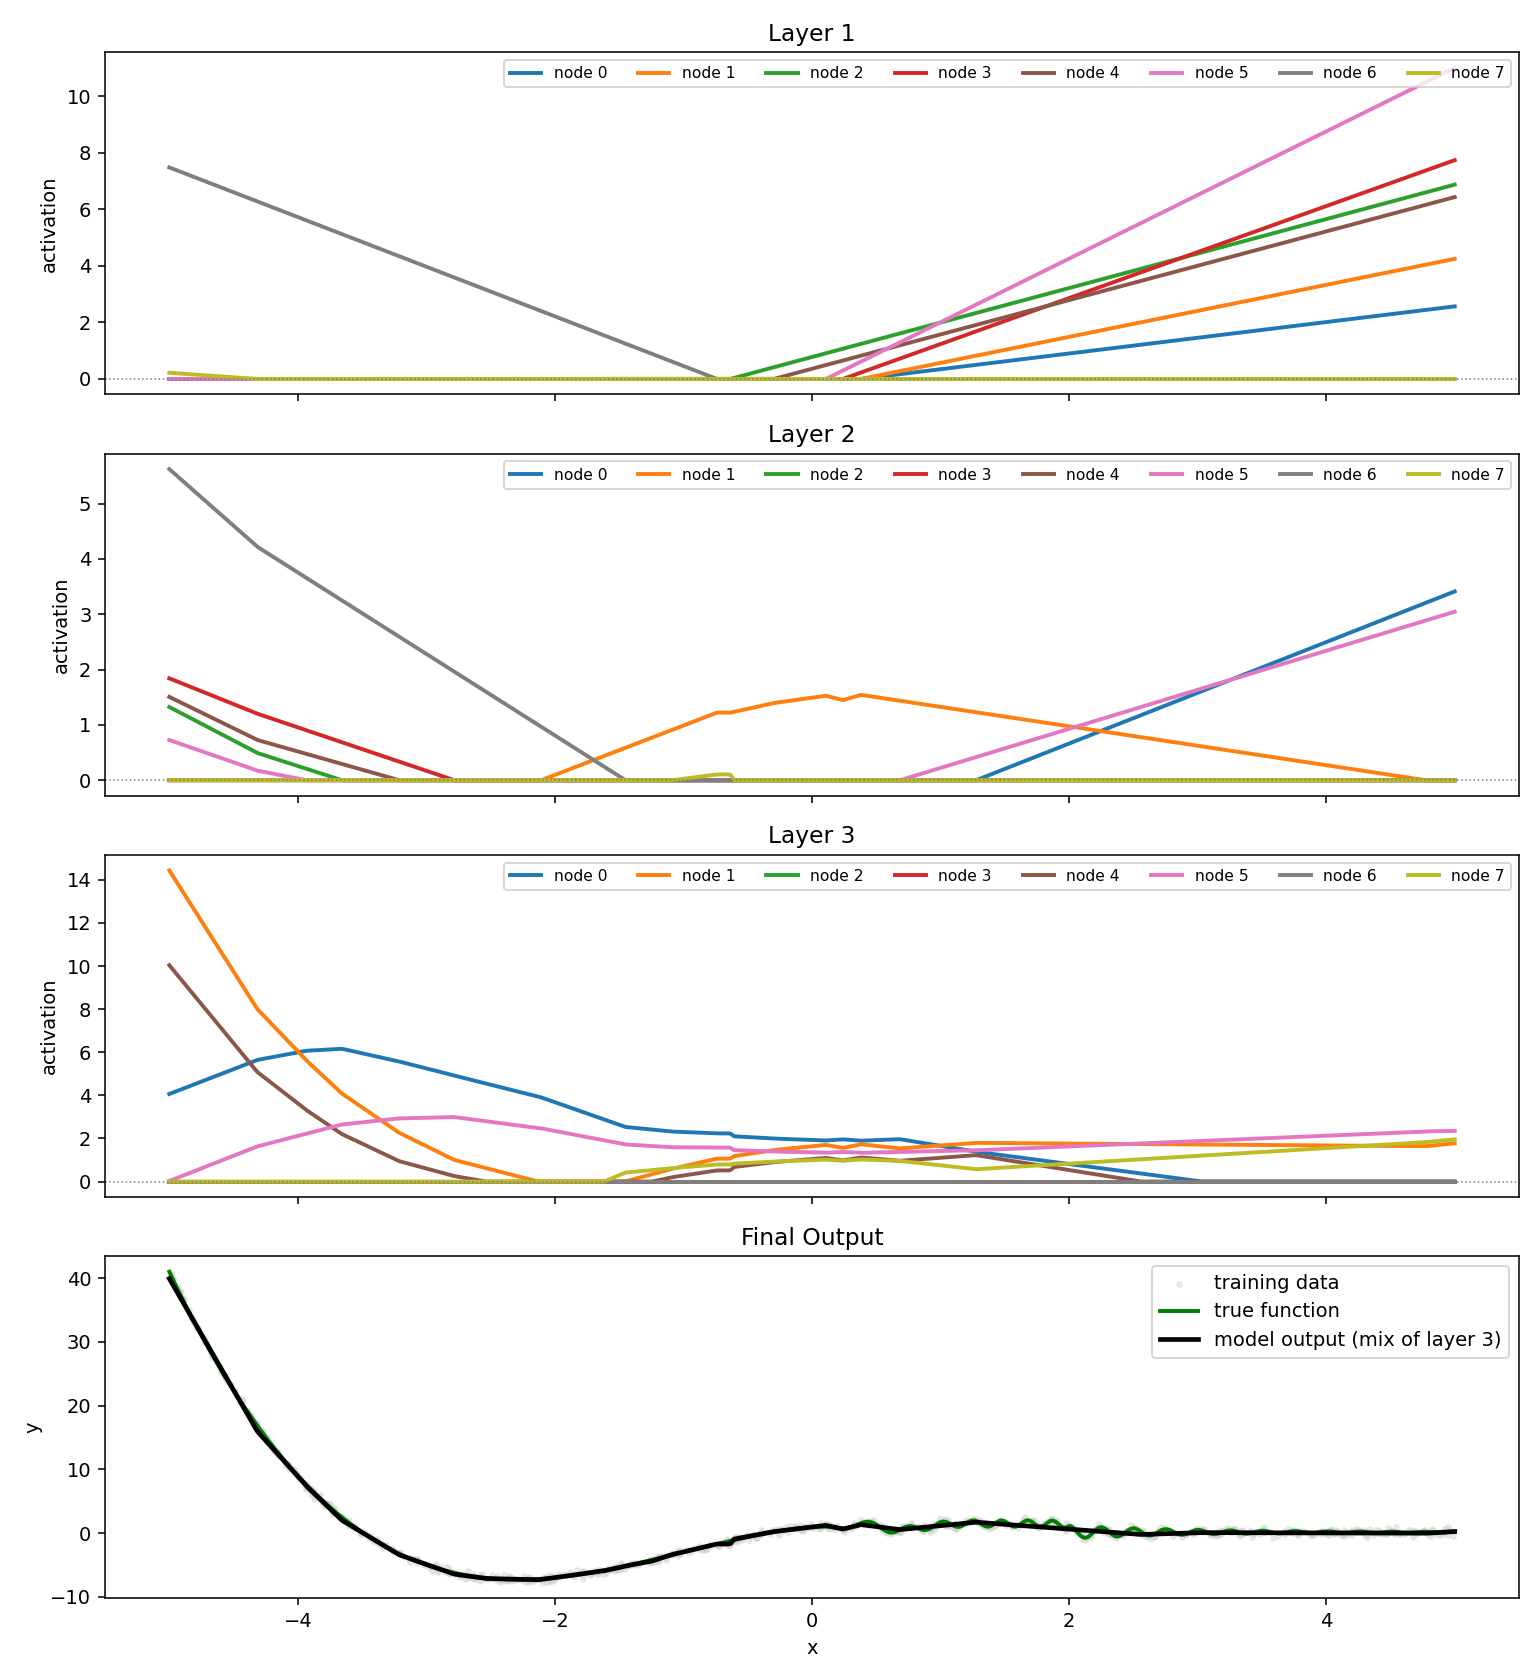
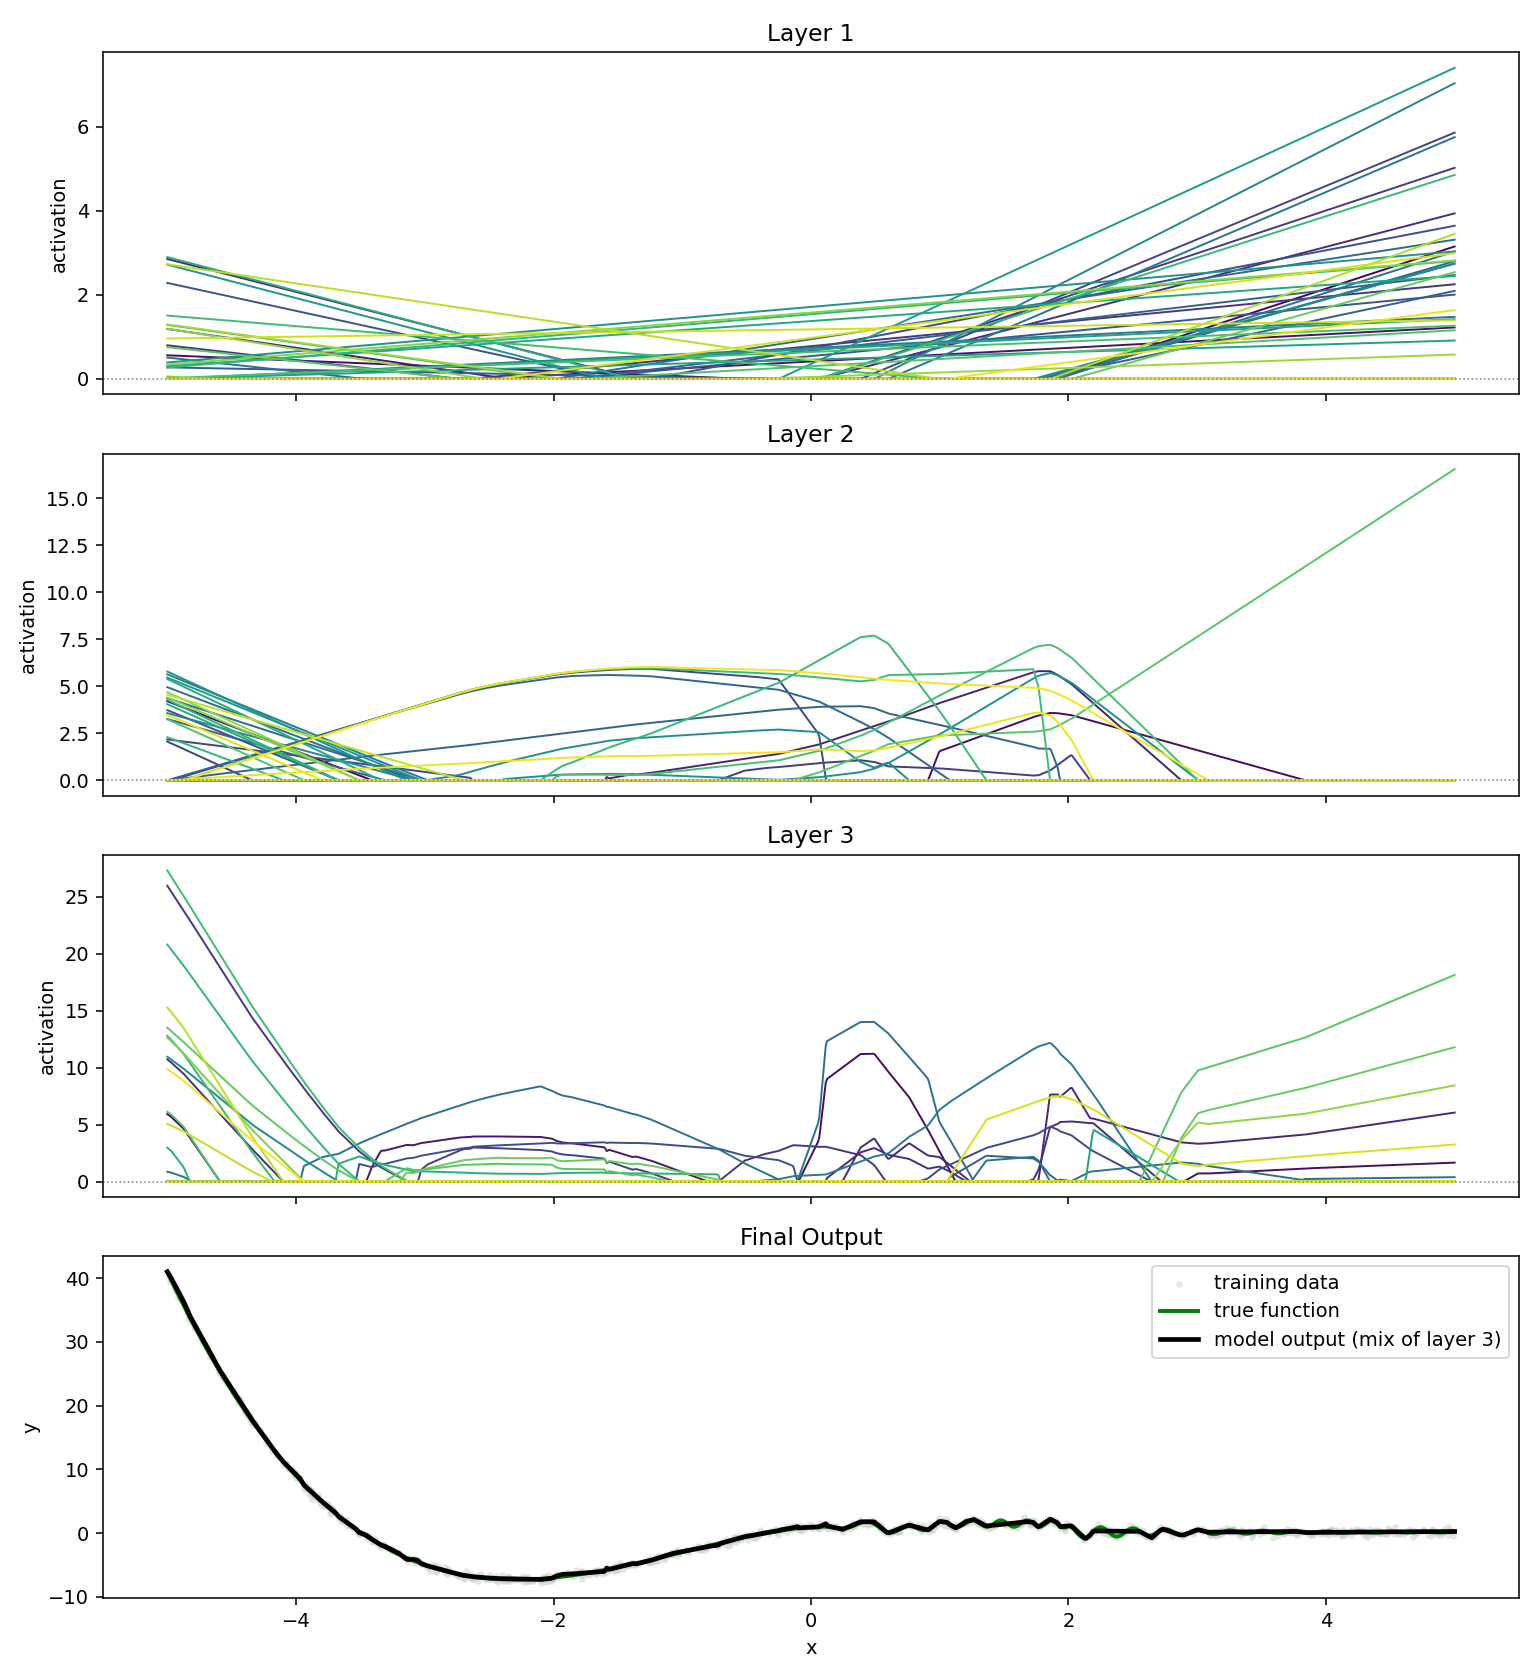
Fixing bugs and inconsistencies

diff --git a/MLP/ReLu/visualize_layers.py b/MLP/ReLu/visualize_layers.py
@@ -1,4 +1,3 @@
-
 # What the network looks like after 1, 2, and 3 hidden layers.
 
 # The 1D "output after layer k" is a linear mix of that layer's nodes
@@ -6,75 +5,22 @@
 
 import numpy as np
 import torch
-import torch.nn as nn
-import torch.optim as optim
 import matplotlib.pyplot as plt
 
+from generate_training_data import generate_training_data
 from generate_world import get_y_outputs
+from neural_network import convert_numpy_to_tensors, train_neural_network
 
 
-N_HIDDEN = 8  # small enough to read, big enough to actually fit
 WORLD = "world1"
-X_MIN, X_MAX = -5.0, 5.0
 
 
-class SmallDeepReLU(nn.Module):
-    def __init__(self, n_hidden=N_HIDDEN):
-        super().__init__()
-        self.hidden = nn.Linear(1, n_hidden)
-        self.hidden2 = nn.Linear(n_hidden, n_hidden)
-        self.hidden3 = nn.Linear(n_hidden, n_hidden)
-        self.relu = nn.ReLU()
-        self.output = nn.Linear(n_hidden, 1)
-        self._init_weights()
-
-    def _init_weights(self):
-        # Tiny deep ReLUs often "die" (everything clipped to 0). A little positive
-        # bias keeps more sticks off the floor at the start of training.
-        for layer in (self.hidden, self.hidden2, self.hidden3):
-            nn.init.kaiming_uniform_(layer.weight, nonlinearity="relu")
-            nn.init.constant_(layer.bias, 0.1)
-        nn.init.xavier_uniform_(self.output.weight)
-        nn.init.zeros_(self.output.bias)
-
-    def forward(self, x):
-        x = self.relu(self.hidden(x))
-        x = self.relu(self.hidden2(x))
-        x = self.relu(self.hidden3(x))
-        return self.output(x)
-
-    def hidden_states(self, x):
-        z1 = self.hidden(x)
-        h1 = self.relu(z1)
-        z2 = self.hidden2(h1)
-        h2 = self.relu(z2)
-        z3 = self.hidden3(h2)
-        h3 = self.relu(z3)
-        y_hat = self.output(h3)
-        return (z1, h1), (z2, h2), (z3, h3), y_hat
-
-
-def make_training_data(n=1000, seed=8826, noise=0.3):
-    rng = np.random.default_rng(seed)
-    x = rng.uniform(X_MIN, X_MAX, size=(n, 1))
-    y = get_y_outputs(WORLD, x) + rng.normal(0.0, noise, size=x.shape)
-    return x, y
-
-
-def train(x, y, epochs=6000, lr=0.01):
-    model = SmallDeepReLU()
-    opt = optim.Adam(model.parameters(), lr=lr)
-    loss_fn = nn.MSELoss()
-    xt = torch.tensor(x, dtype=torch.float32)
-    yt = torch.tensor(y, dtype=torch.float32)
-    for epoch in range(epochs + 1):
-        opt.zero_grad()
-        loss = loss_fn(model(xt), yt)
-        loss.backward()
-        opt.step()
-        if epoch % 500 == 0:
-            print(f"Epoch: {epoch} | MSE Loss: {loss.item():.4f}")
-    return model
+def hidden_activations(model, x):
+    h1 = model.relu(model.hidden(x))
+    h2 = model.relu(model.hidden2(h1))
+    h3 = model.relu(model.hidden3(h2))
+    y_hat = model.output(h3)
+    return h1, h2, h3, y_hat
 
 
 def _readout_weights(H, y):
@@ -88,17 +34,19 @@ def _apply_readout(H, beta):
     return A @ beta
 
 
-def collect_curves(model, x_train, y_train, n_grid=800):
-    x_grid = np.linspace(X_MIN, X_MAX, n_grid).reshape(-1, 1)
-    xt = torch.tensor(x_train, dtype=torch.float32)
+def collect_curves(model, x_train, y_train, world_type=WORLD, start_window=-5, end_window=5, step_count=1000):
+    x_grid = np.linspace(start_window, end_window, step_count).reshape(-1, 1)
+    xt, _ = convert_numpy_to_tensors(x_train, y_train)
     xg = torch.tensor(x_grid, dtype=torch.float32)
+
     model.eval()
     with torch.no_grad():
-        (_, h1_tr), (_, h2_tr), (_, h3_tr), _ = model.hidden_states(xt)
-        (z1, h1), (z2, h2), (z3, h3), y_hat = model.hidden_states(xg)
-    to_np = lambda t: t.detach().cpu().numpy()
-    h1_tr, h2_tr = to_np(h1_tr), to_np(h2_tr)
-    h1, h2, h3 = to_np(h1), to_np(h2), to_np(h3)
+        h1_tr, h2_tr, _, _ = hidden_activations(model, xt)
+        h1, h2, h3, y_hat = hidden_activations(model, xg)
+
+    h1_tr, h2_tr = h1_tr.numpy(), h2_tr.numpy()
+    h1, h2, h3 = h1.numpy(), h2.numpy(), h3.numpy()
+
     # If we stopped after layer 1 or 2, this is the 1D curve those nodes can already draw
     y_after_l1 = _apply_readout(h1, _readout_weights(h1_tr, y_train))
     y_after_l2 = _apply_readout(h2, _readout_weights(h2_tr, y_train))
@@ -107,11 +55,10 @@ def collect_curves(model, x_train, y_train, n_grid=800):
         "h1": h1,
         "h2": h2,
         "h3": h3,
-        "z2": to_np(z2),
         "y_after_l1": y_after_l1,
         "y_after_l2": y_after_l2,
-        "y_hat": to_np(y_hat).ravel(),
-        "y_true": get_y_outputs(WORLD, x_grid).ravel(),
+        "y_hat": y_hat.numpy().ravel(),
+        "y_true": get_y_outputs(world_type, x_grid).ravel(),
     }
 
 
@@ -119,7 +66,7 @@ def plot_output_after_each_layer(curves, x_train, y_train):
     x = curves["x"]
     rows = [
         (curves["y_after_l1"], "After layer 1 only", "tab:blue"),
-        (curves["y_after_l2"], "After layer 2 ", "tab:orange"),
+        (curves["y_after_l2"], "After layer 2", "tab:orange"),
         (curves["y_hat"], "After layer 3", "black"),
     ]
     fig, axes = plt.subplots(3, 1, figsize=(11, 10), sharex=True, sharey=True)
@@ -138,7 +85,8 @@ def plot_output_after_each_layer(curves, x_train, y_train):
 
 
 def plot_layer_stack(curves, x_train, y_train):
-    colors = plt.cm.tab10(np.linspace(0, 1, N_HIDDEN, endpoint=False))
+    n_hidden = curves["h1"].shape[1]
+    colors = plt.cm.viridis(np.linspace(0, 1, n_hidden, endpoint=False))
     x = curves["x"]
 
     fig, axes = plt.subplots(4, 1, figsize=(11, 12), sharex=True)
@@ -148,12 +96,11 @@ def plot_layer_stack(curves, x_train, y_train):
         (axes[2], curves["h3"], "Layer 3"),
     ]
     for ax, acts, title in rows:
-        for j in range(N_HIDDEN):
-            ax.plot(x, acts[:, j], color=colors[j], lw=2, label=f"node {j}")
+        for j in range(n_hidden):
+            ax.plot(x, acts[:, j], color=colors[j], lw=1)
         ax.axhline(0, color="gray", lw=0.8, ls=":")
         ax.set_ylabel("activation")
         ax.set_title(title)
-        ax.legend(loc="upper right", ncol=N_HIDDEN, fontsize=8)
 
     ax = axes[3]
     ax.scatter(x_train, y_train, s=6, c="lightgray", alpha=0.45, label="training data", zorder=1)
@@ -169,10 +116,9 @@ def plot_layer_stack(curves, x_train, y_train):
     plt.show()
 
 
-
 def main():
-    x_train, y_train = make_training_data()
-    model = train(x_train, y_train)
+    x_train, y_train = generate_training_data("world1", 8826, 1000, "gaussian", "uniform", 0.3)
+    model = train_neural_network(x_train, y_train, epochs=20000, learning_rate=0.01)
     curves = collect_curves(model, x_train, y_train)
     plot_output_after_each_layer(curves, x_train, y_train)
     plot_layer_stack(curves, x_train, y_train)

diff --git a/MLP/ReLu/neural_network.py b/MLP/ReLu/neural_network.py
@@ -12,20 +12,20 @@ from plot import plot_model_vs_world
 # 1. Define the architecture class 
 class PiecewiseLearner(nn.Module):
     def __init__(self):
-        super().__init__() # triggers initialization from pytorch
+        super().__init__()
         
         #create the first hidden layer using a linear template (y = xW^T + b)
         self.hidden = nn.Linear(1, 64) # 1 input value per sample and 64 output features
-        # projects that 1 one single value into 64 distinct nodes (each node learns its own unique slope and bias combination)
-        # splits out input into 64 alternate perspectives
-        self.hidden2 = nn.Linear(64, 64) # 1 input value per sample and 64 output features
+        # projects that one single value into 64 distinct nodes (each node learns its own unique slope and bias combination)
+        # splits the input into 64 alternate perspectives
+        self.hidden2 = nn.Linear(64, 64) 
         
-        self.hidden3 = nn.Linear(64, 64) # 1 input value per sample and 64 output features
+        self.hidden3 = nn.Linear(64, 64) 
 
 
-        self.relu = nn.ReLU() # instantiates the relu activation functiuon
+        self.relu = nn.ReLU() # instantiates the relu activation function
 
-        self.output = nn.Linear(64, 1) # the output dimension where it takes those 64 nodes and compresses them back into a single continous output (y_hat) prediction
+        self.output = nn.Linear(64, 1) # the output dimension where it takes those 64 nodes and compresses them back into a single continuous output (y_hat) prediction
 
     def forward(self, x):
         x = self.relu(self.hidden(x))
@@ -42,9 +42,9 @@ def train_neural_network(np_x_inputs: np.ndarray, np_y_outputs: np.ndarray, epoc
     # initialize model, loss function, and optimizer
     model = PiecewiseLearner() 
     loss_func = nn.MSELoss() 
-    optimizer = optim.Adam(model.parameters(), lr=learning_rate) # adam optimizer for adaptive optimization
+    optimizer = optim.Adam(model.parameters(), lr=learning_rate) 
    
-    # THE TRAINING LOOOOP (finally)
+    # THE TRAINING LOOOOP
     for epoch in range(epochs + 1):
         # 1. Reset old gradients
         optimizer.zero_grad() #resets gradients from previous loop (if any)
@@ -59,13 +59,8 @@ def train_neural_network(np_x_inputs: np.ndarray, np_y_outputs: np.ndarray, epoc
         loss.backward()
 
         # 5. Update the weights
-        optimizer.step() #it nudges all the weights and stuff in the right direction here
-        # The cool thing here is that because we are using the Adam optimizer, it will nudge weights that are having trouble learning with larger step sizes and the weights that are oscillating a lot would have smaller step sizes
+        optimizer.step() 
 
-
-        # Print Progress every 100 epochs
-        if epoch % 100 == 0:
-            print(f"Epoch: {epoch} | MSE Loss: {loss}")
 
     return model
 
@@ -77,8 +72,7 @@ def convert_numpy_to_tensors(np_x_inputs: np.ndarray, np_y_outputs: np.ndarray):
 
 def main():
     x_inputs, y_outputs = generate_training_data("world1", 8826, 1000, "gaussian", "uniform", 0.3)
-
-    # Pass them into your fresh training function
+   
     trained_model = train_neural_network(x_inputs, y_outputs, epochs=20000, learning_rate = 0.01)
 
     plot_model_vs_world(trained_model, "world1", x_inputs, y_outputs)

diff --git a/MLP/ReLu/generate_training_data.py b/MLP/ReLu/generate_training_data.py
@@ -5,19 +5,6 @@ from plot import plot_points
 from generate_world import get_y_outputs
 
 
-noise_distribution_type = {
-    1: "uniform",
-    2: "skewed",
-    3: "gaussian"
-    # (add some other ones later)
-}
-
-sampling_distribution_type = {
-    1: "uniform",
-    2: "skewed"
-    # (add some other ones later)
-}
-
 def generate_training_data(world_type: str, seed: int, number_of_datapoints: int, noise_dist_type: str, sampling_dist_type: str, noise_lvl: float): 
     # 1. initialize the random variable using seed
     rng = np.random.default_rng(seed)
@@ -33,7 +20,7 @@ def generate_training_data(world_type: str, seed: int, number_of_datapoints: int
         x_inputs = rng.exponential(scale=2.0,  size=(number_of_datapoints, 1))
 
     else: 
-        raise ValueError(f"Unknown sampling type specification : {noise_dist_type}")
+        raise ValueError(f"Unknown sampling type specification : {sampling_dist_type}")
 
     # 3. Pass the clean inputs into the fake world function
     y_clean = get_y_outputs(world_type, x_inputs)
@@ -51,11 +38,10 @@ def generate_training_data(world_type: str, seed: int, number_of_datapoints: int
         noise = rng.gumbel(loc=0.0, scale=noise_lvl, size=y_clean.shape)
         noise -= noise.mean() 
     else:
-        raise ValueError(f"Unknown noise distribution: {sampling_dist_type}")
+        raise ValueError(f"Unknown noise distribution: {noise_dist_type}")
 
     y_outputs = y_clean + noise
-    print(x_inputs.shape, y_outputs.shape)
-    plot_points(x_inputs, y_outputs)
+    # plot_points(x_inputs, y_outputs)
 
     return x_inputs, y_outputs
 

diff --git a/MLP/ReLu/plot.py b/MLP/ReLu/plot.py
@@ -11,37 +11,14 @@ from generate_world import get_y_outputs
 
 def plot_points(x_inputs, y_outputs):
     
-    # 1. Create the display window (10 inches wide, 6 inches tall) -- Why these specific dimensions? Idk it just fits the data pretty well, so it depends on your data you might need to adjust
+    # 1. Create the display window (10 inches wide, 6 inches tall) 
     plt.figure(figsize=(10,6))
 
     # 2. Draw line graph on the grid we created
     plt.scatter(x_inputs, y_outputs, s=5)
 
-    # 3. Special styles and visuals
-
-    # 4. Show plot
+    # 3. Show plot
     plt.show()
-
-def plot_true_function(world_type, start_window = -4, end_window = 4, step_count = 1000): 
-
-    # 1.  Evenly sample x inputs --> np.linspace(starting number, stopping number, number of steps)
-    x_inputs = np.linspace(start_window, end_window, step_count) # I think 1000 is a pretty good starting resolution 
-
-    # 2. Get the y outputs from the x inputs
-    y_outputs = get_y_outputs(world_type, x_inputs)
-
-    
-    # 3. Create the display window (10 inches wide, 6 inches tall)
-    plt.figure(figsize=(10,6))
-
-    # 4. Draw line graph on the grid we created
-    plt.plot(x_inputs, y_outputs)
-
-    # 5. Special styles and visuals
-
-    # # 6. Show plot
-    plt.show()
-
 
 def plot_model_vs_world(model, world_type, x_train, y_train, start_window=-5, end_window=5, step_count = 1000):
     

diff --git a/MLP/ReLu/generate_world.py b/MLP/ReLu/generate_world.py
@@ -10,7 +10,7 @@ import numpy as np
 def generate_fake_world1(x):
 
     #Fake world #1:
-    # if X > 0  : -x^3 - 3x^2 + 2x + 1
+    # if X < 0  : -x^3 - 3x^2 + 2x + 1
     # if 0 <= X <= 2  :  cos(15x) * sin(5x^2) + 1
     # if X > 2  :  e^-(x-2) * cos(25x-50) + cos(30) * sin(20)
 
